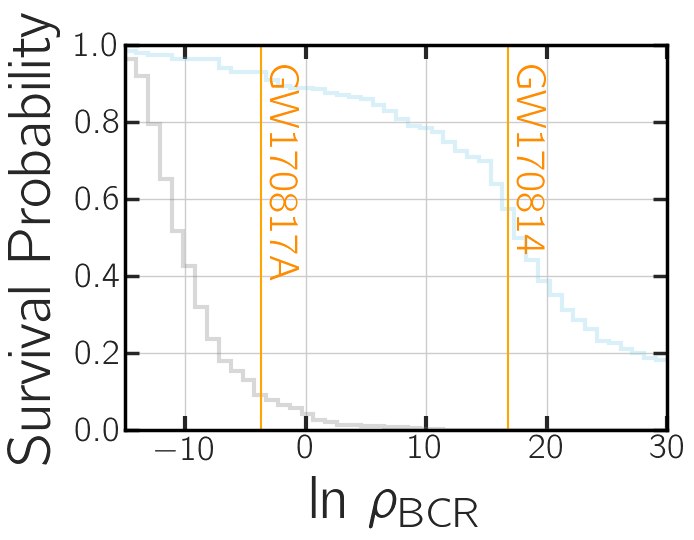
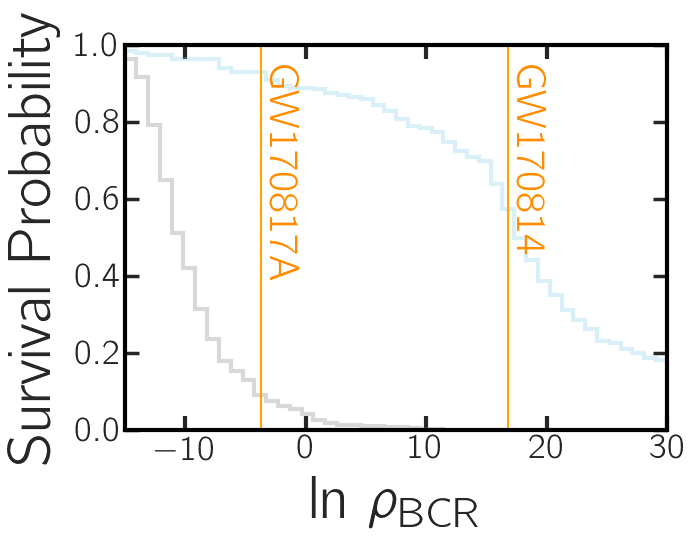
remo0ve grid

diff --git a/scripts/make_bcr_cdf.py b/scripts/make_bcr_cdf.py
@@ -25,7 +25,7 @@ rcParams["text.usetex"] = True
 rcParams['axes.labelsize'] = 30
 rcParams['axes.titlesize'] = 30
 rcParams['axes.labelpad'] = 10
-rcParams['axes.linewidth'] = 2.5
+rcParams['axes.linewidth'] = 3
 rcParams['axes.edgecolor'] = 'black'
 rcParams['xtick.labelsize'] = 25
 rcParams['xtick.major.size'] = 10.0
@@ -105,6 +105,7 @@ def plot(data_type='orig', add_legend=False):
     # colors = ["#d8d8d8", "#daf0f8", "#0173b2", "#e9b457"]
     # custom_lines = [Line2D([0], [0], color=c, lw=4) for c in colors]
     # l = ax_cdf.legend(custom_lines, labels, **lg_kwargs)
+    ax_cdf.grid(False)
     bbox_extra_artists = []
     if add_legend:
         lg_kwargs = dict(fontsize="small", loc="lower right",
